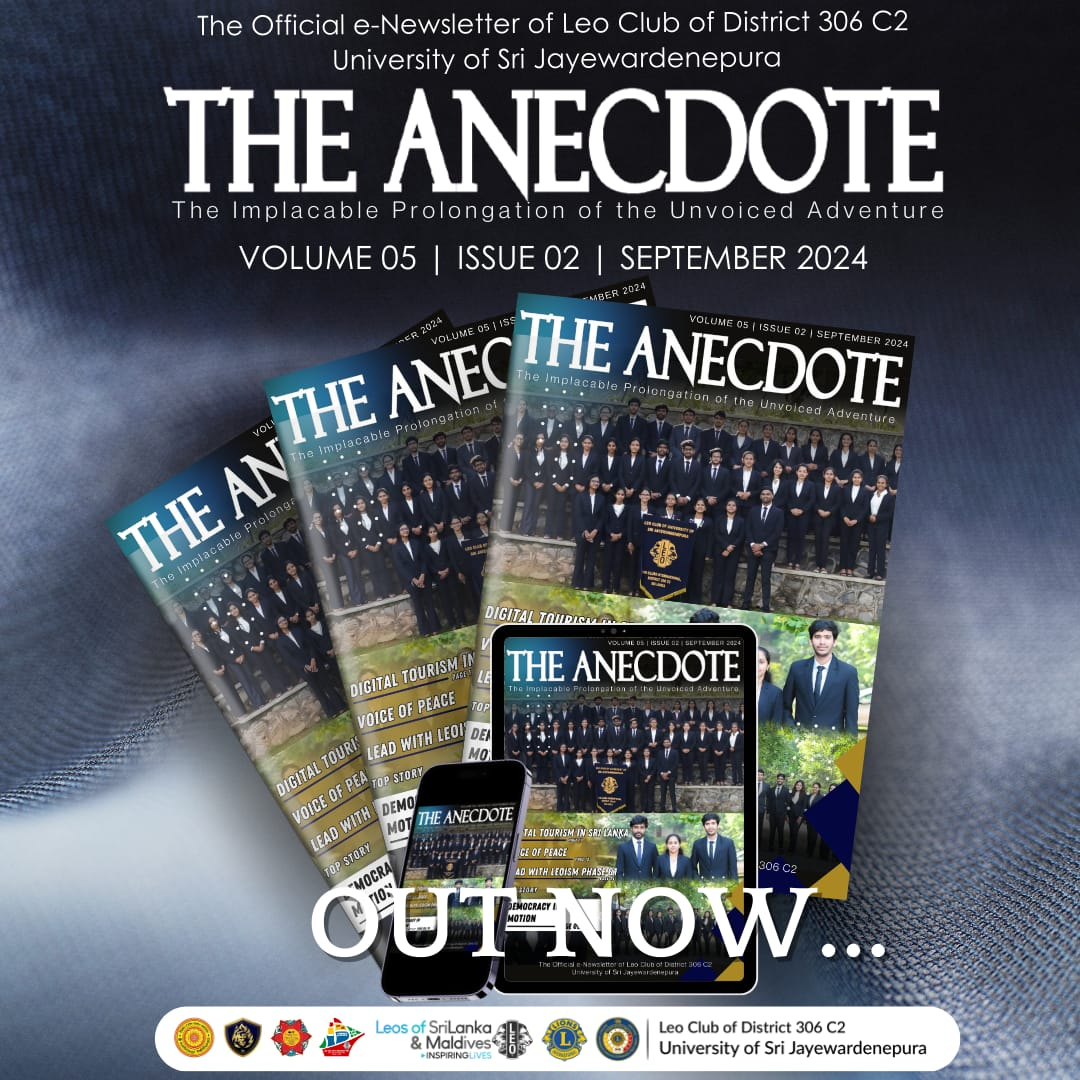
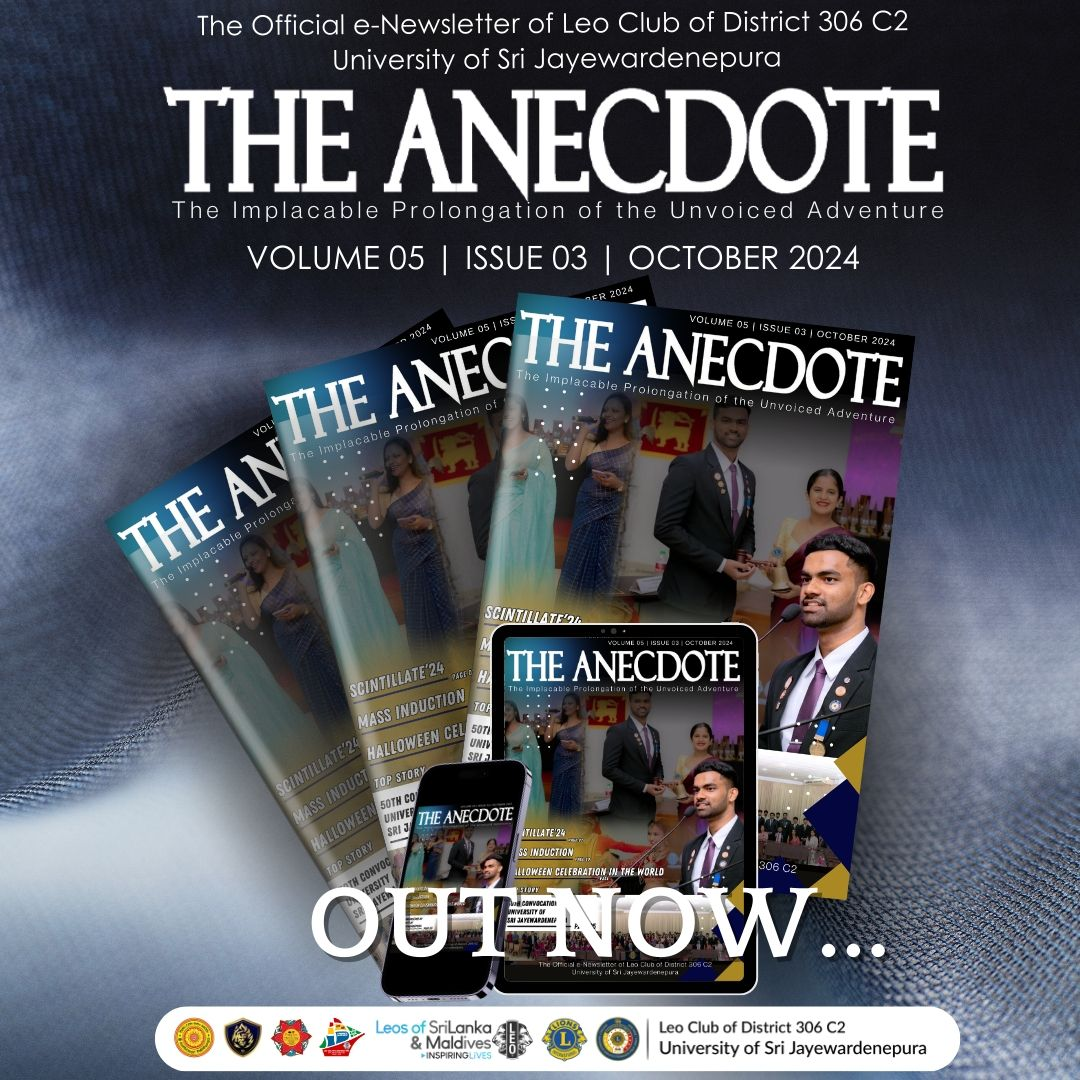
update project.html

diff --git a/pages/anecdote.html b/pages/anecdote.html
@@ -27,7 +27,7 @@
     </a><br>
     <p id="title">Anecdote</p>
     <ul>
-      <li><span> ᴛʜᴇ ᴀɴᴇᴄᴅᴏᴛᴇ | ᴠᴏʟᴜᴍᴇ 05 | ɪꜱꜱᴜᴇ 02</span></li>
+      <li><span> ᴛʜᴇ ᴀɴᴇᴄᴅᴏᴛᴇ | ᴠᴏʟᴜᴍᴇ 05 | ɪꜱꜱᴜᴇ 03</span></li>
       <li>
         <p>
             The Implacable Prolongation of the Unvoiced Adventure✨<br />
@@ -35,7 +35,7 @@
             We are quite proud to present "THE ANECDOTE", the official e-newsletter 
             of the Leo Club of District 306 C2 University of Sri Jayewardenepura.
 
-            Get ready to embark on a fresh journey with our latest newsletter for the month of September.
+            Get ready to embark on a fresh journey with our latest newsletter for the month of October.
 
            Join our monthly newsletter and become a cherished member of the excitement. Don't miss out!
 <br />
@@ -47,143 +47,150 @@
     
     <div class="slideshow-container">
         <div class="mySlides fade">
-          <img src="../image\anecdote\cover pg.png" style="width: 100%"  class="zoomable" />
+          <img src="../image\anecdote\cover pg.jpg" style="width: 100%"  class="zoomable" />
           </div>
         <div class="mySlides fade">
-          <img src="../image\anecdote\1.png" style="width: 100%"  class="zoomable" />
+          <img src="../image\anecdote\1.jpg" style="width: 100%"  class="zoomable" />
         </div>
         <div class="mySlides fade">
-          <img src="../image\anecdote\2.png" style="width: 100%" class="zoomable" />
+          <img src="../image\anecdote\2.jpg" style="width: 100%" class="zoomable" />
         </div>
         <div class="mySlides fade">
-          <img src="../image\anecdote\3.png" style="width: 100%" class="zoomable" />
+          <img src="../image\anecdote\3.jpg" style="width: 100%" class="zoomable" />
         </div>
         <div class="mySlides fade">
-          <img src="../image\anecdote\4.png" style="width: 100%" class="zoomable" />
+          <img src="../image\anecdote\4.jpg" style="width: 100%" class="zoomable" />
         </div>
         <div class="mySlides fade">
-          <img src="../image\anecdote\5.png" style="width: 100%" class="zoomable" />
+          <img src="../image\anecdote\5.jpg" style="width: 100%" class="zoomable" />
         </div>
         <div class="mySlides fade">
-          <img src="../image\anecdote\6.png" style="width: 100%" class="zoomable" />
+          <img src="../image\anecdote\6.jpg" style="width: 100%" class="zoomable" />
           </div>
         <div class="mySlides fade">
-          <img src="../image\anecdote\7.png" style="width: 100%" class="zoomable" />
+          <img src="../image\anecdote\7.jpg" style="width: 100%" class="zoomable" />
         </div>
         <div class="mySlides fade">
-          <img src="../image\anecdote\8.png" style="width: 100%" class="zoomable" />
+          <img src="../image\anecdote\8.jpg" style="width: 100%" class="zoomable" />
         </div>
         <div class="mySlides fade">
-          <img src="../image\anecdote\9.png" style="width: 100%" class="zoomable" />
+          <img src="../image\anecdote\9.jpg" style="width: 100%" class="zoomable" />
         </div>
         <div class="mySlides fade">
-          <img src="../image\anecdote\10.png" style="width: 100%" class="zoomable" />
+          <img src="../image\anecdote\10.jpg" style="width: 100%" class="zoomable" />
         </div>
         <div class="mySlides fade">
-          <img src="../image\anecdote\11.png" style="width: 100%" class="zoomable" />
+          <img src="../image\anecdote\11.jpg" style="width: 100%" class="zoomable" />
         </div>
         <div class="mySlides fade">
-          <img src="../image\anecdote\12.png" style="width: 100%" class="zoomable" />
+          <img src="../image\anecdote\12.jpg" style="width: 100%" class="zoomable" />
         </div>
         <div class="mySlides fade">
-          <img src="../image\anecdote\13.png" style="width: 100%" class="zoomable" />
+          <img src="../image\anecdote\13.jpg" style="width: 100%" class="zoomable" />
         </div>
         <div class="mySlides fade">
-          <img src="../image\anecdote\14.png" style="width: 100%" class="zoomable" />
+          <img src="../image\anecdote\14.jpg" style="width: 100%" class="zoomable" />
         </div>
         <div class="mySlides fade">
-          <img src="../image\anecdote\15.png" style="width: 100%" class="zoomable" />
+          <img src="../image\anecdote\15.jpg" style="width: 100%" class="zoomable" />
         </div>
         <div class="mySlides fade">
-          <img src="../image\anecdote\16.png" style="width: 100%" class="zoomable" />
+          <img src="../image\anecdote\16.jpg" style="width: 100%" class="zoomable" />
         </div>
         <div class="mySlides fade">
-          <img src="../image\anecdote\17.png" style="width: 100%" class="zoomable" />
+          <img src="../image\anecdote\17.jpg" style="width: 100%" class="zoomable" />
         </div>
         <div class="mySlides fade">
-          <img src="../image\anecdote\18.png" style="width: 100%"  class="zoomable" />
+          <img src="../image\anecdote\18.jpg" style="width: 100%"  class="zoomable" />
         </div>
         <div class="mySlides fade">
-          <img src="../image\anecdote\19.png" style="width: 100%" class="zoomable" />
+          <img src="../image\anecdote\19.jpg" style="width: 100%" class="zoomable" />
         </div>
         <div class="mySlides fade">
-          <img src="../image\anecdote\20.png" style="width: 100%" class="zoomable" />
+          <img src="../image\anecdote\20.jpg" style="width: 100%" class="zoomable" />
         </div>
         <div class="mySlides fade">
-          <img src="../image\anecdote\21.png" style="width: 100%" class="zoomable" />
+          <img src="../image\anecdote\21.jpg" style="width: 100%" class="zoomable" />
         </div>
         <div class="mySlides fade">
-          <img src="../image\anecdote\22.png" style="width: 100%" class="zoomable" />
+          <img src="../image\anecdote\22.jpg" style="width: 100%" class="zoomable" />
         </div>
         <div class="mySlides fade">
-          <img src="../image\anecdote\23.png" style="width: 100%" class="zoomable" />
+          <img src="../image\anecdote\23.jpg" style="width: 100%" class="zoomable" />
         </div>
         <div class="mySlides fade">
-          <img src="../image\anecdote\24.png" style="width: 100%" class="zoomable" />
+          <img src="../image\anecdote\24.jpg" style="width: 100%" class="zoomable" />
         </div>
         <div class="mySlides fade">
-          <img src="../image\anecdote\25.png" style="width: 100%" class="zoomable" />
+          <img src="../image\anecdote\25.jpg" style="width: 100%" class="zoomable" />
         </div>
         <div class="mySlides fade">
-          <img src="../image\anecdote\26.png" style="width: 100%" class="zoomable" />
+          <img src="../image\anecdote\26.jpg" style="width: 100%" class="zoomable" />
         </div>
         <div class="mySlides fade">
-          <img src="../image\anecdote\27.png" style="width: 100%" class="zoomable" />
+          <img src="../image\anecdote\27.jpg" style="width: 100%" class="zoomable" />
         </div>
         <div class="mySlides fade">
-          <img src="../image\anecdote\28.png" style="width: 100%"  class="zoomable" />
+          <img src="../image\anecdote\28.jpg" style="width: 100%"  class="zoomable" />
         </div>
         <div class="mySlides fade">
-          <img src="../image\anecdote\29.png" style="width: 100%" class="zoomable" />
+          <img src="../image\anecdote\29.jpg" style="width: 100%" class="zoomable" />
         </div>
         <div class="mySlides fade">
-          <img src="../image\anecdote\30.png" style="width: 100%" class="zoomable" />
+          <img src="../image\anecdote\30.jpg" style="width: 100%" class="zoomable" />
         </div>
         <div class="mySlides fade">
-          <img src="../image\anecdote\31.png" style="width: 100%" class="zoomable" />
+          <img src="../image\anecdote\31.jpg" style="width: 100%" class="zoomable" />
         </div>
         <div class="mySlides fade">
-          <img src="../image\anecdote\32.png" style="width: 100%" class="zoomable" />
+          <img src="../image\anecdote\32.jpg" style="width: 100%" class="zoomable" />
         </div>
         <div class="mySlides fade">
-          <img src="../image\anecdote\33.png" style="width: 100%" class="zoomable" />
+          <img src="../image\anecdote\33.jpg" style="width: 100%" class="zoomable" />
         </div>
         <div class="mySlides fade">
-          <img src="../image\anecdote\34.png" style="width: 100%" class="zoomable" />
+          <img src="../image\anecdote\34.jpg" style="width: 100%" class="zoomable" />
         </div>
         <div class="mySlides fade">
-          <img src="../image\anecdote\35.png" style="width: 100%" class="zoomable" />
+          <img src="../image\anecdote\35.jpg" style="width: 100%" class="zoomable" />
         </div>
         <div class="mySlides fade">
-          <img src="../image\anecdote\36.png" style="width: 100%" class="zoomable" />
+          <img src="../image\anecdote\36.jpg" style="width: 100%" class="zoomable" />
         </div>
         <div class="mySlides fade">
-          <img src="../image\anecdote\37.png" style="width: 100%" class="zoomable" />
+          <img src="../image\anecdote\37.jpg" style="width: 100%" class="zoomable" />
         </div>
         <div class="mySlides fade">
-          <img src="../image\anecdote\38.png" style="width: 100%" class="zoomable" />
+          <img src="../image\anecdote\38.jpg" style="width: 100%" class="zoomable" />
         </div>
         <div class="mySlides fade">
-          <img src="../image\anecdote\39.png" style="width: 100%" class="zoomable" />
+          <img src="../image\anecdote\39.jpg" style="width: 100%" class="zoomable" />
         </div>
         <div class="mySlides fade">
-          <img src="../image\anecdote\40.png" style="width: 100%" class="zoomable" />
+          <img src="../image\anecdote\40.jpg" style="width: 100%" class="zoomable" />
         </div>
         <div class="mySlides fade">
-          <img src="../image\anecdote\41.png" style="width: 100%" class="zoomable" />
+          <img src="../image\anecdote\41.jpg" style="width: 100%" class="zoomable" />
         </div>
         <div class="mySlides fade">
-          <img src="../image\anecdote\42.png" style="width: 100%" class="zoomable" />
+          <img src="../image\anecdote\42.jpg" style="width: 100%" class="zoomable" />
         </div>
         <div class="mySlides fade">
-          <img src="../image\anecdote\43.png" style="width: 100%" class="zoomable" />
+          <img src="../image\anecdote\43.jpg" style="width: 100%" class="zoomable" />
         </div>
         <div class="mySlides fade">
-          <img src="../image\anecdote\44.png" style="width: 100%" class="zoomable" />
+          <img src="../image\anecdote\44.jpg" style="width: 100%" class="zoomable" />
         </div>
         <div class="mySlides fade">
-          <img src="../image\anecdote\45.png" style="width: 100%" class="zoomable" />
+          <img src="../image\anecdote\45.jpg" style="width: 100%" class="zoomable" />
         </div>
+        <div class="mySlides fade">
+          <img src="../image\anecdote\46.jpg" style="width: 100%" class="zoomable" />
+        </div>
+        <div class="mySlides fade">
+          <img src="../image\anecdote\47.jpg" style="width: 100%" class="zoomable" />
+        </div>
+        
         
         
                 
@@ -198,9 +205,9 @@
         
         <li id="link">
           <a
-            href="https://www.facebook.com/share/p/MRRm5JrWaF3jwbUB/?mibextid=oFDknk"
+            href="https://www.facebook.com/share/p/1DLvfE19HD/"
             target="_blank"
-            >September 24/25</a
+            >October 24/25</a
           >
         </li>
       </ul>
@@ -210,25 +217,25 @@
       
       <li id="link">
         <a
-          href="https://www.facebook.com/100079613281814/posts/pfbid02SVHSHC63Vovn8X3DY4KMx6SoRLmCfvyRhKmGtKucfQGr9Z9hNJzW6snwWqATUYcZl/?app=fbl"
-          target="_blank"
-          >March 23/24</a
-        >
-      </li>
-
-      <li id="link">
-        <a
           href="https://www.facebook.com/100079613281814/posts/424674000196373/?mibextid=rS40aB7S9Ucbxw6v"
           target="_blank"
           >April 23/24</a
         >
       </li>
 
+      <li id="link">
+        <a
+          href="https://www.facebook.com/share/p/pJ9m43TTwQutXGSG/?mibextid=oFDknk"
+          target="_blank"
+          >August 24/25</a
+        >
+      </li>
+
         <li id="link">
           <a
-            href="https://www.facebook.com/share/p/pJ9m43TTwQutXGSG/?mibextid=oFDknk"
+            href="https://www.facebook.com/share/p/MRRm5JrWaF3jwbUB/?mibextid=oFDknk"
             target="_blank"
-            >August 24/25</a
+            >September 24/25</a
           >
         </li>
     </ul>

diff --git a/thisYr_Projects/p11.html b/thisYr_Projects/p11.html
@@ -1,0 +1,51 @@
+<!DOCTYPE html>
+<html lang="en">
+  <head>
+    <meta charset="UTF-8" />
+    <meta name="viewport" content="width=device-width, initial-scale=1.0" />
+    <title>J'pura C2 Leos</title>
+    <link rel="icon" href="../image/logo.jpg" type="image/png" />
+    <link
+      rel="stylesheet"
+      href="https://cdnjs.cloudflare.com/ajax/libs/font-awesome/5.15.4/css/all.min.css"
+    />
+    <link rel="stylesheet" href="../Css/style_p.css"/>
+  </head>
+  <body>
+    <a href="../project.html" id="backHome">
+      <i class="fas fa-arrow-left"></i>
+    </a>
+    <p id="title"> Project Name: Essence</p>
+    <br>
+    <p>ncouraging creativity may help us understand and sympathize with others, especially 
+        in a divided society. Creativity serves as a guiding light, pulling us away from violence 
+        and toward kindness and compassion, ultimately replacing hatred with love. Despite our many 
+        feelings, such as sadness, anguish, pleasure, or happiness, we are unified. Sharing viewpoints 
+        through writing, poetry, and art is an effective approach to increasing awareness and appreciation 
+        for our environment. Many people nowadays desire to be writers since it allows them to share their 
+        expertise openly and professionally, even with strangers. The ultimate goal of the Archoden initiative
+         is to increase the literacy of our club members. We hope that through artistic expression, we may 
+         bridge gaps, increase understanding, and foster a sense of community. </p>
+      <br>
+
+      <p>In October, to honor significant global and cultural events, we shared a series of impactful flyers on platforms like Facebook, Instagram, and LinkedIn. These observances included:
+        <br />
+        Breast Cancer Awareness Month , Children’s Day (October 1st),Teachers’ Day (October 6th) , Vap Poya Day (October 17th) , Diwali (October 31st) ,Halloween (October 31st)</p>
+        
+      <br>
+      <div class="ks">
+        <img src="../image\proj\Tyr\p11\01.jpg" alt="proj">
+        <img src="../image\proj\Tyr\p11\02.jpg" alt="proj">
+        <img src="../image\proj\Tyr\p11\03.jpg" alt="proj">
+        <img src="../image\proj\Tyr\p11\04.jpg" alt="proj">
+        <img src="../image\proj\Tyr\p11\05.jpg" alt="proj">
+        <img src="../image\proj\Tyr\p11\06.jpg" alt="proj">
+        
+       </div>
+
+      
+   
+  
+
+  </body>
+</html>

diff --git a/index.html b/index.html
@@ -129,14 +129,14 @@
 
       <section class="leoism4">
         <div class="column4">
-          <h1>ᴛʜᴇ ᴀɴᴇᴄᴅᴏᴛᴇ | ᴠᴏʟᴜᴍᴇ 05 | ɪꜱꜱᴜᴇ 02</h1>
+          <h1>ᴛʜᴇ ᴀɴᴇᴄᴅᴏᴛᴇ | ᴠᴏʟᴜᴍᴇ 05 | ɪꜱꜱᴜᴇ 03</h1>
           <p>
             The Implacable Prolongation of the Unvoiced Adventure✨<br />
 
             We are quite proud to present "THE ANECDOTE”, the official
             e-newsletter of the Leo Club of District 306 C2 University of Sri
             Jayewardenepura. Get ready to embark on a fresh journey with our
-            latest newsletter for the month of September. Join our monthly
+            latest newsletter for the month of October. Join our monthly
             newsletter and become a cherished member of the excitement. Don't
             miss out!<br />
             Let's dive in!!!

diff --git a/thisYr_Projects/p12.html b/thisYr_Projects/p12.html
@@ -1,0 +1,32 @@
+<!DOCTYPE html>
+<html lang="en">
+  <head>
+    <meta charset="UTF-8" />
+    <meta name="viewport" content="width=device-width, initial-scale=1.0" />
+    <title>J'pura C2 Leos</title>
+    <link rel="icon" href="../image/logo.jpg" type="image/png" />
+    <link
+      rel="stylesheet"
+      href="https://cdnjs.cloudflare.com/ajax/libs/font-awesome/5.15.4/css/all.min.css"
+    />
+    <link rel="stylesheet" href="../Css/style_p.css"/>
+  </head>
+  <body>
+    <a href="../project.html" id="backHome">
+      <i class="fas fa-arrow-left"></i>
+    </a>
+    <p id="title"> Project Name: Achcharu Stall</p>
+    <br>
+    
+      <div class="ks">
+        <img src="../image\proj\Tyr\p12\01.jpg" alt="proj">
+        <img src="../image\proj\Tyr\p12\02.jpg" alt="proj">
+        
+       </div>
+
+      
+   
+  
+
+  </body>
+</html>

diff --git a/project.html b/project.html
@@ -119,6 +119,20 @@
               <a href="thisYr_Projects\p10.html" class="read-more-btn">Watch More</a>
           </div>
 
+          <div class="project ongoing">
+            <img src="image\proj\Tyr\p11\01.jpg" alt="proj" /><br /><br>
+            <h1>Essence</h1>
+            <br>
+              <a href="thisYr_Projects\p11.html" class="read-more-btn">Watch More</a>
+          </div>
+
+          <div class="project ongoing">
+            <img src="image\proj\Tyr\p12\01.jpg" alt="proj" /><br /><br>
+            <h1>Achcharu Stall</h1>
+            <br>
+              <a href="thisYr_Projects\p12.html" class="read-more-btn">Watch More</a>
+          </div>
+
 
         
           
